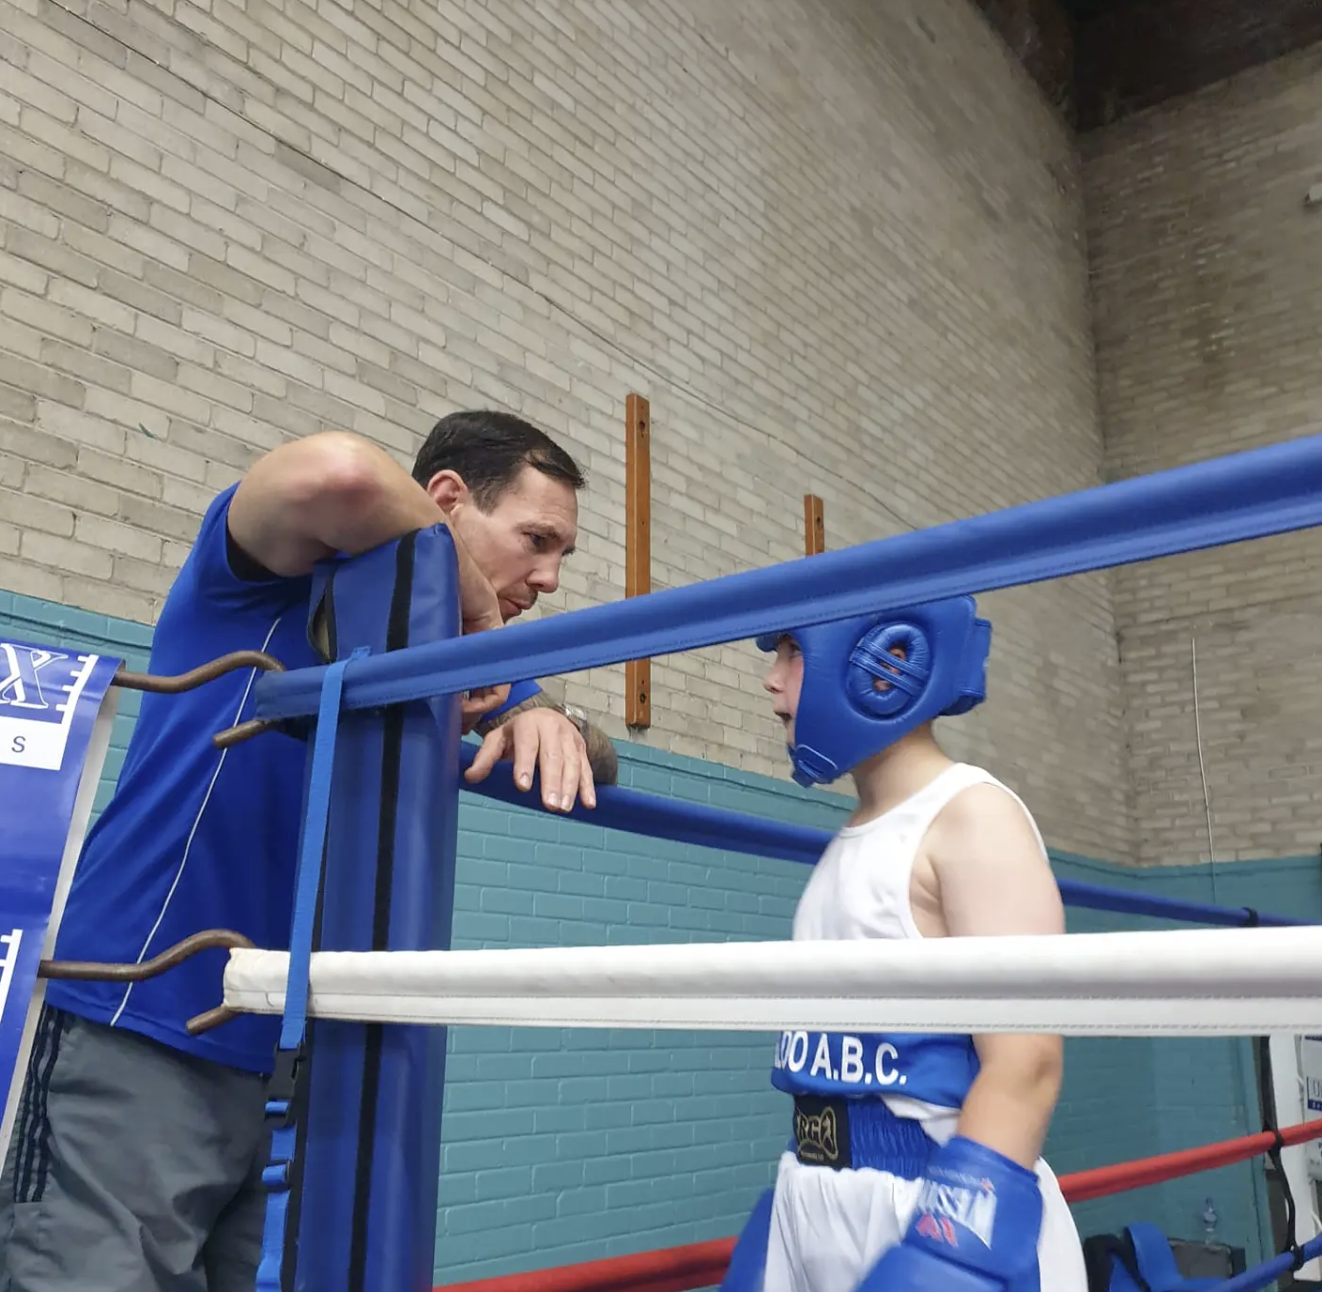
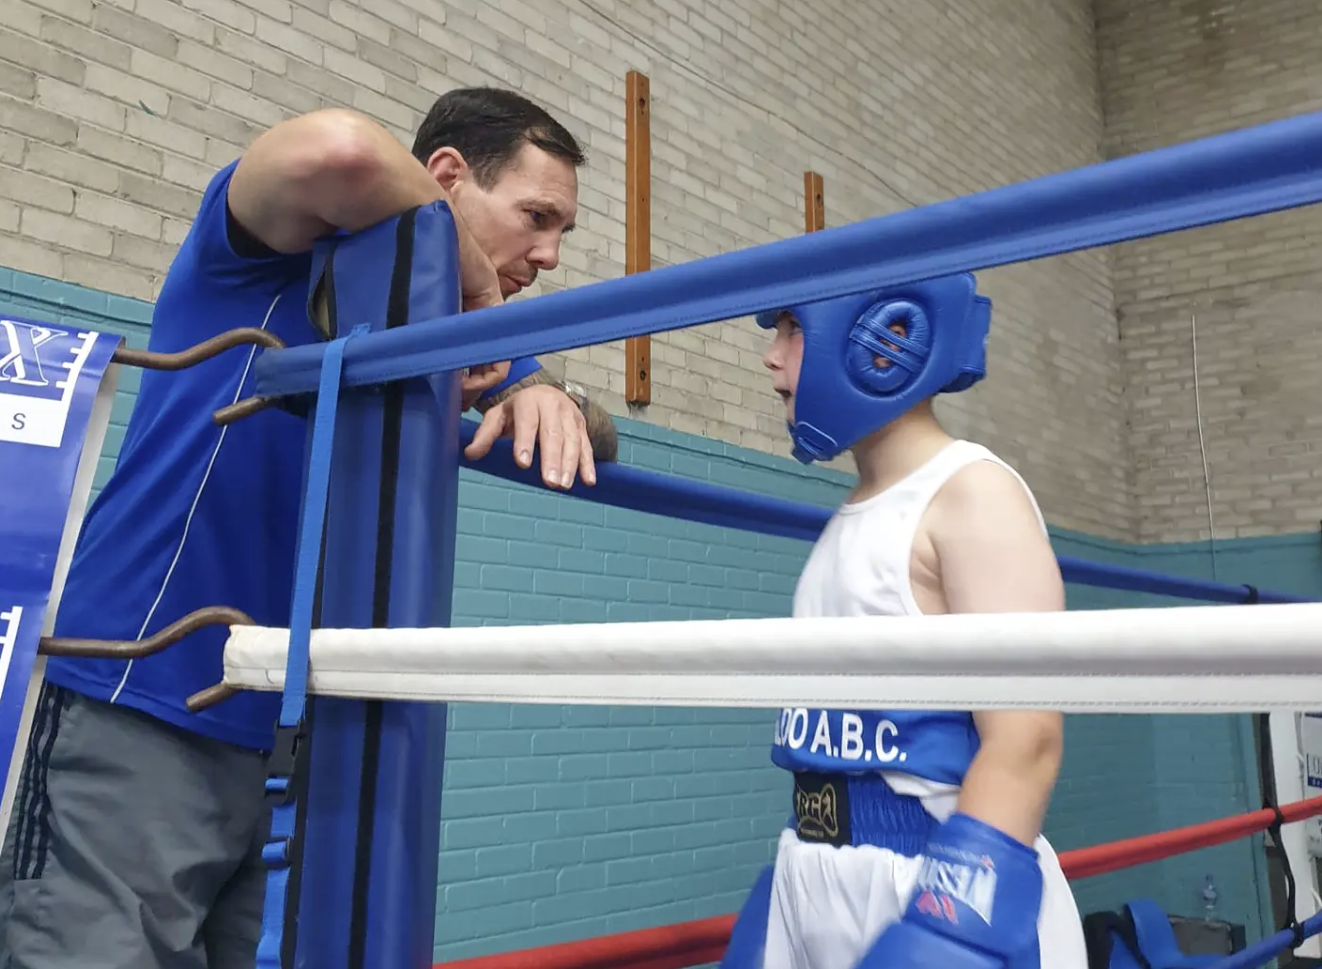
Update photos, real reviews, and CSS fixes
- Swap hero to hero1.jpg, kids class to kids2.jpg, ladies class to womans.jpg
- Add shaun.png for team section
- Crop about section photo (remove top quarter)
- Replace placeholder testimonials with real Google reviews
- Fix testimonials/gallery overflow and light section heading contrast

diff --git a/index.html b/index.html
@@ -98,7 +98,7 @@
     <!-- ===== HERO ===== -->
     <section class="hero" aria-label="Welcome to Waterloo ABC">
       <div class="hero__bg">
-        <img src="assets/gym.png" alt="Waterloo ABC boxing ring with coach" width="1200" height="900" loading="eager">
+        <img src="assets/hero1.jpg" alt="Waterloo ABC boxing gym" width="1200" height="900" loading="eager">
         <div class="hero__overlay"></div>
       </div>
       <div class="hero__content">
@@ -148,7 +148,7 @@
           <!-- Card 2: Children's Beginners -->
           <article class="program-card reveal" tabindex="0">
             <div class="program-card__image">
-              <img src="assets/kids.png" alt="Children's beginners boxing class at Waterloo ABC" loading="lazy" width="400" height="533">
+              <img src="assets/kids2.jpg" alt="Children's beginners boxing class at Waterloo ABC" loading="lazy" width="400" height="533">
             </div>
             <div class="program-card__overlay"></div>
             <div class="program-card__content">

diff --git a/css/components.css b/css/components.css
@@ -628,6 +628,7 @@
   width: 100%;
   height: 100%;
   object-fit: cover;
+  object-position: center 75%;
 }
 
 .about__image::after {
